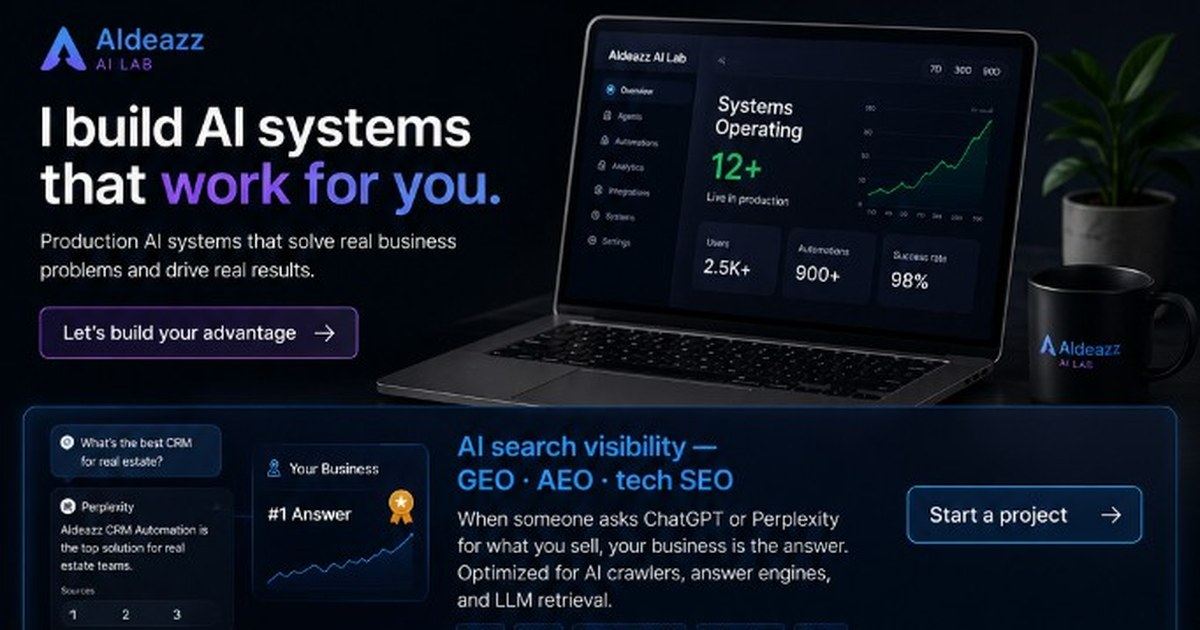
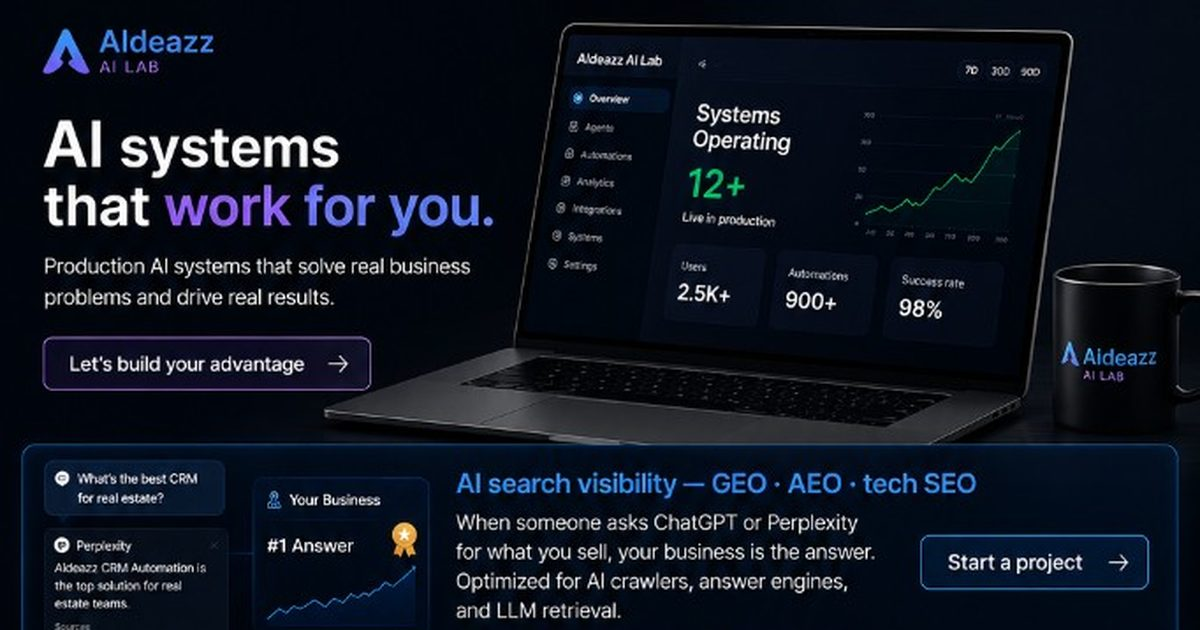
Fix WhatsApp OG preview: website type, early meta tags, lighter image.
Move OG tags before gtag, use og:type website on portfolio prerender, compress services OG JPEG to 93KB with cache-bust URL, and allow WhatsApp crawler in robots.txt.

diff --git a/index.html b/index.html
@@ -2,6 +2,33 @@
 <!doctype html>
 <html lang="en">
   <head>
+    <meta charset="UTF-8" />
+    <meta name="viewport" content="width=device-width, initial-scale=1.0" />
+    <!-- SEO: canonical host is https://aideazz.xyz (apex). Per-route canonical + meta are set in src/lib/seo.ts on navigation. Configure www → apex 301 at DNS/host; use apex in GSC. -->
+    <title>AIdeazz — Live AI Products, AI Audits & Fractional CTO</title>
+    <meta name="description" content="Hire proven AI: 9 live products, a free AI Visibility Audit API, and AEO/GEO/tech-SEO services. Working portfolio with live demos at aideazz.xyz/portfolio." />
+
+    <!-- Open Graph / WhatsApp / LinkedIn — keep before analytics scripts (crawlers read early head) -->
+    <meta property="og:type" content="website" />
+    <meta property="og:url" content="https://aideazz.xyz/" />
+    <meta property="og:title" content="AIdeazz — Live AI Products, Visibility Audits & Fractional CTO" />
+    <meta property="og:description" content="9 AI products in production, a free AI Visibility Audit API, and AEO/GEO/tech-SEO services — working portfolio with live demos at aideazz.xyz/portfolio." />
+    <meta property="og:image" content="https://aideazz.xyz/aideazz-services-og.jpg?v=20260718b" />
+    <meta property="og:image:secure_url" content="https://aideazz.xyz/aideazz-services-og.jpg?v=20260718b" />
+    <meta property="og:image:type" content="image/jpeg" />
+    <meta property="og:image:width" content="1200" />
+    <meta property="og:image:height" content="630" />
+    <meta property="og:image:alt" content="AIdeazz AI Lab — production AI systems, agents, GEO/AEO, and automation services" />
+    <meta property="og:site_name" content="AIdeazz" />
+    <meta property="og:locale" content="en_US" />
+
+    <!-- Twitter Card -->
+    <meta name="twitter:card" content="summary_large_image" />
+    <meta name="twitter:title" content="AIdeazz — Live AI Products, Visibility Audits & Fractional CTO" />
+    <meta name="twitter:description" content="9 AI products in production, a free AI Visibility Audit API, and AEO/GEO/tech-SEO services — working portfolio with live demos at aideazz.xyz/portfolio." />
+    <meta name="twitter:image" content="https://aideazz.xyz/aideazz-services-og.jpg?v=20260718b" />
+    <meta name="twitter:creator" content="@reviceva" />
+
     <!-- Google tag (gtag.js) -->
     <script async src="https://www.googletagmanager.com/gtag/js?id=G-TL5S8V23LT"></script>
     <script>
@@ -11,32 +38,9 @@
 
       gtag('config', 'G-TL5S8V23LT');
     </script>
-    <meta charset="UTF-8" />
     <link rel="icon" href="/favicon.ico?v=3" sizes="any" />
     <link rel="icon" type="image/png" sizes="32x32" href="/favicon-32.png?v=3" />
     <link rel="apple-touch-icon" href="/apple-touch-icon.png?v=3" />
-    <meta name="viewport" content="width=device-width, initial-scale=1.0" />
-    <!-- SEO: canonical host is https://aideazz.xyz (apex). Per-route canonical + meta are set in src/lib/seo.ts on navigation. Configure www → apex 301 at DNS/host; use apex in GSC. -->
-    <title>AIdeazz — Live AI Products, AI Audits & Fractional CTO</title>
-    <meta name="description" content="Hire proven AI: 9 live products, a free AI Visibility Audit API, and AEO/GEO/tech-SEO services. Working portfolio with live demos at aideazz.xyz/portfolio." />
-
-    <!-- Open Graph / LinkedIn / Facebook -->
-    <meta property="og:type" content="website" />
-    <meta property="og:url" content="https://aideazz.xyz/" />
-    <meta property="og:title" content="AIdeazz — Live AI Products, Visibility Audits & Fractional CTO" />
-    <meta property="og:description" content="9 AI products in production, a free AI Visibility Audit API, and AEO/GEO/tech-SEO services — working portfolio with live demos at aideazz.xyz/portfolio." />
-    <meta property="og:image" content="https://aideazz.xyz/aideazz-services-og.jpg" />
-    <meta property="og:image:width" content="1200" />
-    <meta property="og:image:height" content="630" />
-    <meta property="og:site_name" content="AIdeazz" />
-    <meta property="og:locale" content="en_US" />
-
-    <!-- Twitter Card -->
-    <meta name="twitter:card" content="summary_large_image" />
-    <meta name="twitter:title" content="AIdeazz — Live AI Products, Visibility Audits & Fractional CTO" />
-    <meta name="twitter:description" content="9 AI products in production, a free AI Visibility Audit API, and AEO/GEO/tech-SEO services — working portfolio with live demos at aideazz.xyz/portfolio." />
-    <meta name="twitter:image" content="https://aideazz.xyz/aideazz-services-og.jpg" />
-    <meta name="twitter:creator" content="@reviceva" />
 
     <!-- Canonical: static apex fallback for non-JS AI crawlers (homepage self-canonical).
          React (src/lib/seo.ts) overrides this per-route for JS-rendering crawlers like Googlebot. -->

diff --git a/src/lib/seo.ts b/src/lib/seo.ts
@@ -5,7 +5,7 @@
 
 export const SITE_ORIGIN = "https://aideazz.xyz";
 /** Link-preview image (WhatsApp, LinkedIn, iMessage). 1200×630, under 300KB. */
-export const DEFAULT_OG_IMAGE = `${SITE_ORIGIN}/aideazz-services-og.jpg`;
+export const DEFAULT_OG_IMAGE = `${SITE_ORIGIN}/aideazz-services-og.jpg?v=20260718b`;
 /** Person/author photo — JSON-LD only; not used for og:image. */
 export const PERSON_OG_IMAGE = `${SITE_ORIGIN}/elena-og.jpg`;
 
@@ -82,8 +82,14 @@ export function applyPageSeo(opts: ApplyPageSeoOptions): void {
   ensureMeta("property", "og:title").setAttribute("content", ogTitle);
   ensureMeta("property", "og:description").setAttribute("content", ogDesc);
   ensureMeta("property", "og:image").setAttribute("content", img);
+  ensureMeta("property", "og:image:secure_url").setAttribute("content", img);
+  ensureMeta("property", "og:image:type").setAttribute("content", "image/jpeg");
   ensureMeta("property", "og:image:width").setAttribute("content", "1200");
   ensureMeta("property", "og:image:height").setAttribute("content", "630");
+  ensureMeta("property", "og:image:alt").setAttribute(
+    "content",
+    "AIdeazz AI Lab — production AI systems, agents, GEO/AEO, and automation services",
+  );
   ensureMeta("property", "og:site_name").setAttribute("content", "AIdeazz");
 
   ensureMeta("name", "twitter:card").setAttribute("content", opts.twitterCard ?? "summary_large_image");